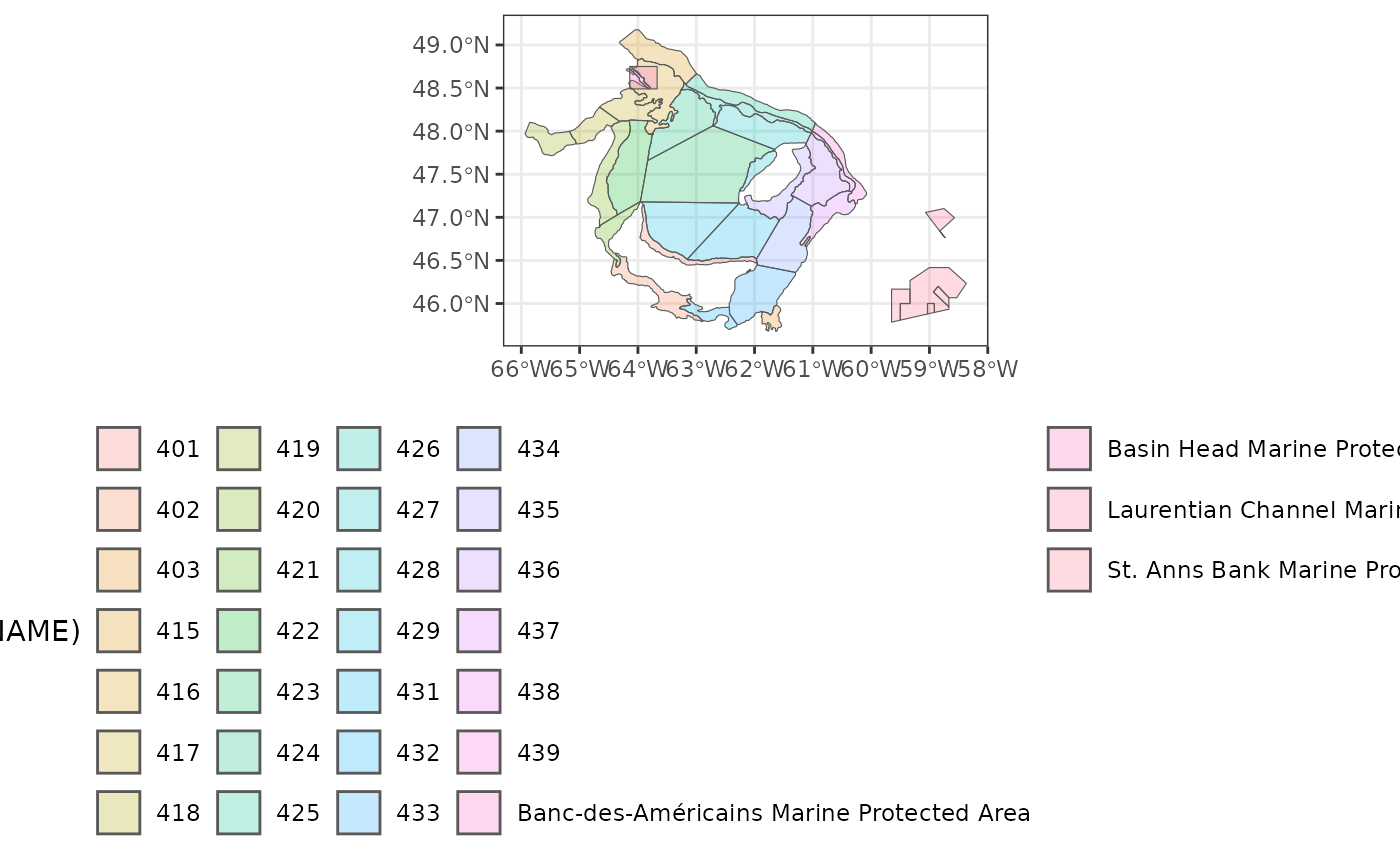
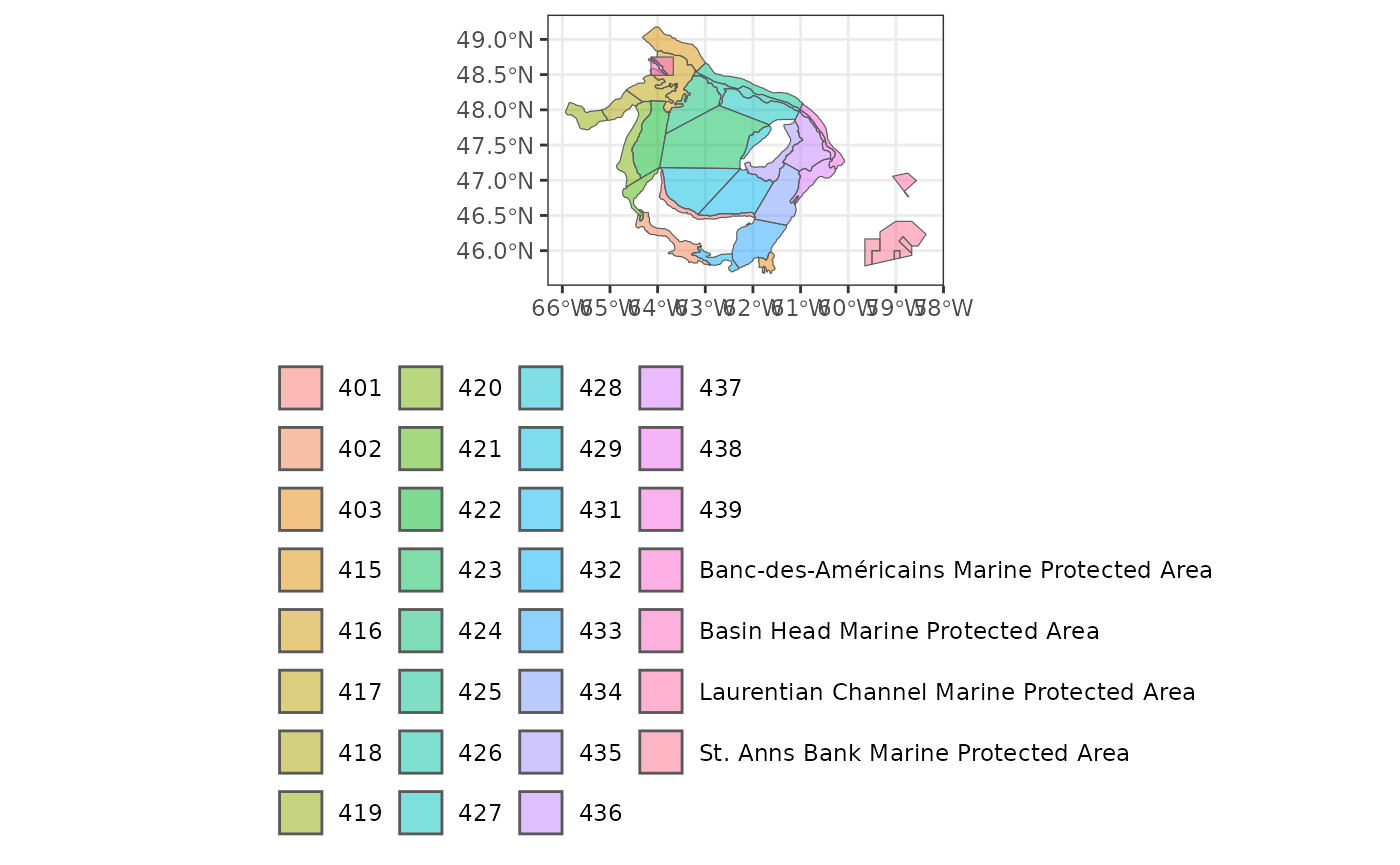
Deploying to gh-pages from @ JoleneSutton/gslSpatial@ce8146a61641ded3ab7da8df1fdc7cc9744b21e7 🚀

Changed region(s): [[0.0, 0.0312, 1.0, 0.9676], [0.5221, 0.8428, 0.7986, 0.874]]

diff --git a/articles/assign_points.html b/articles/assign_points.html
@@ -153,11 +153,11 @@ polygons</p>
 </h2>
 <div class="sourceCode" id="cb5"><pre class="downlit sourceCode r">
 <code class="sourceCode R"><span><span class="va">x</span><span class="op">&lt;-</span><span class="fu"><a href="../reference/assign_points_terra.html">assign_points_terra</a></span><span class="op">(</span><span class="va">df</span><span class="op">$</span><span class="va">longitude</span>, <span class="va">df</span><span class="op">$</span><span class="va">latitude</span>,<span class="va">rv</span><span class="op">)</span></span>
-<span><span class="co">#&gt; Processing points 1 to 1000. 17:28:02</span></span>
-<span><span class="co">#&gt; Processing points 1001 to 2000. 17:28:02</span></span>
-<span><span class="co">#&gt; Processing points 2001 to 3000. 17:28:02</span></span>
-<span><span class="co">#&gt; Processing points 3001 to 4000. 17:28:02</span></span>
-<span><span class="co">#&gt; Processing points 4001 to 4559. 17:28:02</span></span>
+<span><span class="co">#&gt; Processing points 1 to 1000. 17:55:28</span></span>
+<span><span class="co">#&gt; Processing points 1001 to 2000. 17:55:28</span></span>
+<span><span class="co">#&gt; Processing points 2001 to 3000. 17:55:28</span></span>
+<span><span class="co">#&gt; Processing points 3001 to 4000. 17:55:28</span></span>
+<span><span class="co">#&gt; Processing points 4001 to 4559. 17:55:28</span></span>
 <span><span class="fu"><a href="https://rdrr.io/r/utils/head.html" class="external-link">head</a></span><span class="op">(</span><span class="va">x</span><span class="op">)</span></span>
 <span><span class="co">#&gt;          x       y assigned.polygon</span></span>
 <span><span class="co">#&gt; 1 -60.4406 47.2421              437</span></span>
@@ -226,7 +226,8 @@ Marine Protected Areas</p>
 <span>  <span class="fu"><a href="https://dieghernan.github.io/tidyterra/reference/ggspatvector.html" class="external-link">geom_spatvector</a></span><span class="op">(</span>data<span class="op">=</span><span class="va">rv</span>,fill<span class="op">=</span><span class="cn">NA</span>,col<span class="op">=</span><span class="st">'red'</span><span class="op">)</span><span class="op">+</span></span>
 <span>  <span class="fu"><a href="https://ggplot2.tidyverse.org/reference/geom_point.html" class="external-link">geom_point</a></span><span class="op">(</span>data<span class="op">=</span><span class="va">dat.ziff</span>,<span class="fu"><a href="https://ggplot2.tidyverse.org/reference/aes.html" class="external-link">aes</a></span><span class="op">(</span><span class="va">longitude</span>,<span class="va">latitude</span><span class="op">)</span>,alpha<span class="op">=</span><span class="fl">0.5</span><span class="op">)</span><span class="op">+</span></span>
 <span>  <span class="fu"><a href="https://ggplot2.tidyverse.org/reference/ggtheme.html" class="external-link">theme_bw</a></span><span class="op">(</span><span class="op">)</span><span class="op">+</span></span>
-<span>  <span class="fu"><a href="https://ggplot2.tidyverse.org/reference/theme.html" class="external-link">theme</a></span><span class="op">(</span>legend.position<span class="op">=</span><span class="st">"bottom"</span><span class="op">)</span></span></code></pre></div>
+<span>  <span class="fu"><a href="https://ggplot2.tidyverse.org/reference/theme.html" class="external-link">theme</a></span><span class="op">(</span>legend.position<span class="op">=</span><span class="st">"bottom"</span>,legend.title<span class="op">=</span><span class="fu"><a href="https://ggplot2.tidyverse.org/reference/element.html" class="external-link">element_blank</a></span><span class="op">(</span><span class="op">)</span><span class="op">)</span><span class="op">+</span></span>
+<span>  <span class="fu"><a href="https://ggplot2.tidyverse.org/reference/guides.html" class="external-link">guides</a></span><span class="op">(</span>fill<span class="op">=</span><span class="fu"><a href="https://ggplot2.tidyverse.org/reference/guide_legend.html" class="external-link">guide_legend</a></span><span class="op">(</span>ncol<span class="op">=</span><span class="fl">1</span>,byrow<span class="op">=</span><span class="cn">TRUE</span><span class="op">)</span><span class="op">)</span></span></code></pre></div>
 <p><img src="assign_points_files/figure-html/unnamed-chunk-6-1.png" width="700"></p>
 <p>In order to demonstrate function <code>assign_points_secr</code>, we
 will combine the two shapefiles as if they were originally a single
@@ -260,9 +261,10 @@ shapefile.</p>
 <span><span class="co">#&gt;                  403</span></span>
 <span></span>
 <span><span class="fu"><a href="https://ggplot2.tidyverse.org/reference/ggplot.html" class="external-link">ggplot</a></span><span class="op">(</span><span class="op">)</span><span class="op">+</span></span>
-<span>  <span class="fu"><a href="https://dieghernan.github.io/tidyterra/reference/ggspatvector.html" class="external-link">geom_spatvector</a></span><span class="op">(</span>data<span class="op">=</span><span class="va">shape</span>,<span class="fu"><a href="https://ggplot2.tidyverse.org/reference/aes.html" class="external-link">aes</a></span><span class="op">(</span>fill<span class="op">=</span><span class="fu"><a href="https://rdrr.io/r/base/factor.html" class="external-link">factor</a></span><span class="op">(</span><span class="va">NAME</span><span class="op">)</span><span class="op">)</span>,alpha<span class="op">=</span><span class="fl">0.25</span><span class="op">)</span><span class="op">+</span></span>
+<span>  <span class="fu"><a href="https://dieghernan.github.io/tidyterra/reference/ggspatvector.html" class="external-link">geom_spatvector</a></span><span class="op">(</span>data<span class="op">=</span><span class="va">shape</span>,<span class="fu"><a href="https://ggplot2.tidyverse.org/reference/aes.html" class="external-link">aes</a></span><span class="op">(</span>fill<span class="op">=</span><span class="fu"><a href="https://rdrr.io/r/base/factor.html" class="external-link">factor</a></span><span class="op">(</span><span class="va">NAME</span><span class="op">)</span><span class="op">)</span>,alpha<span class="op">=</span><span class="fl">0.5</span><span class="op">)</span><span class="op">+</span></span>
 <span>  <span class="fu"><a href="https://ggplot2.tidyverse.org/reference/ggtheme.html" class="external-link">theme_bw</a></span><span class="op">(</span><span class="op">)</span><span class="op">+</span></span>
-<span>  <span class="fu"><a href="https://ggplot2.tidyverse.org/reference/theme.html" class="external-link">theme</a></span><span class="op">(</span>legend.position<span class="op">=</span><span class="st">"bottom"</span><span class="op">)</span></span></code></pre></div>
+<span>  <span class="fu"><a href="https://ggplot2.tidyverse.org/reference/theme.html" class="external-link">theme</a></span><span class="op">(</span>legend.position<span class="op">=</span><span class="st">"bottom"</span>,legend.title<span class="op">=</span><span class="fu"><a href="https://ggplot2.tidyverse.org/reference/element.html" class="external-link">element_blank</a></span><span class="op">(</span><span class="op">)</span><span class="op">)</span><span class="op">+</span></span>
+<span>  <span class="fu"><a href="https://ggplot2.tidyverse.org/reference/guides.html" class="external-link">guides</a></span><span class="op">(</span>fill<span class="op">=</span><span class="fu"><a href="https://ggplot2.tidyverse.org/reference/guide_legend.html" class="external-link">guide_legend</a></span><span class="op">(</span>nrow<span class="op">=</span><span class="fl">8</span><span class="op">)</span><span class="op">)</span></span></code></pre></div>
 <p><img src="assign_points_files/figure-html/unnamed-chunk-7-1.png" width="700"></p>
 <p>Now use function <code>assign_points_secr</code></p>
 <div class="sourceCode" id="cb8"><pre class="downlit sourceCode r">
@@ -273,73 +275,31 @@ shapefile.</p>
 <span><span class="va">polygon</span><span class="op">&lt;-</span><span class="va">x</span><span class="op">$</span><span class="va">assigned.polygon</span></span>
 <span></span>
 <span><span class="va">df2</span><span class="op">&lt;-</span><span class="fu"><a href="https://rdrr.io/r/base/cbind.html" class="external-link">cbind</a></span><span class="op">(</span><span class="va">dat.ziff</span>,<span class="va">polygon</span><span class="op">)</span></span>
-<span><span class="co">#&gt; Processing points 1 to 1000. 17:28:04</span></span>
-<span><span class="co">#&gt; Processing points 1001 to 2000. 17:28:05</span></span>
-<span><span class="co">#&gt; Processing points 2001 to 3000. 17:28:06</span></span>
-<span><span class="co">#&gt; Processing points 3001 to 4000. 17:28:06</span></span>
-<span><span class="co">#&gt; Processing points 4001 to 4559. 17:28:06</span></span></code></pre></div>
-<p>Using function <code>table</code> shows that 69 data points fall
-within the area in which stratum 416 overlaps with Banc-des-Américains
-Marine Protected Area. All other assigned points belong to
-non-overlapping polygon areas.</p>
+<span><span class="co">#&gt; Processing points 1 to 1000. 17:55:30</span></span>
+<span><span class="co">#&gt; Processing points 1001 to 2000. 17:55:31</span></span>
+<span><span class="co">#&gt; Processing points 2001 to 3000. 17:55:32</span></span>
+<span><span class="co">#&gt; Processing points 3001 to 4000. 17:55:32</span></span>
+<span><span class="co">#&gt; Processing points 4001 to 4559. 17:55:33</span></span></code></pre></div>
+<p>Using function <code>table</code> shows that 69 points fall within
+the area in which stratum 416 overlaps with Banc-des-Américains Marine
+Protected Area (e.g., table(df2$polygon)). All other assigned points
+belong to non-overlapping polygon areas.</p>
 <div class="sourceCode" id="cb9"><pre class="downlit sourceCode r">
-<code class="sourceCode R"><span><span class="fu"><a href="https://rdrr.io/r/base/table.html" class="external-link">table</a></span><span class="op">(</span><span class="va">df2</span><span class="op">$</span><span class="va">polygon</span><span class="op">)</span></span>
+<code class="sourceCode R"><span><span class="fu"><a href="https://rdrr.io/r/base/cbind.html" class="external-link">rbind</a></span><span class="op">(</span><span class="fu"><a href="https://rdrr.io/r/base/table.html" class="external-link">table</a></span><span class="op">(</span><span class="va">df2</span><span class="op">$</span><span class="va">polygon</span><span class="op">)</span><span class="op">)</span></span>
+<span><span class="co">#&gt;      415 416 416, Banc-des-Américains Marine Protected Area 417 418 419 420 422</span></span>
+<span><span class="co">#&gt; [1,] 105 111                                             69  92  77  28  31  15</span></span>
+<span><span class="co">#&gt;      423 424 425 426 427 428 429 431 433 434 435 436 437 438 439</span></span>
+<span><span class="co">#&gt; [1,] 264  64 198   7  43   3  33  37   4   6 236  61 302  49 177</span></span>
+<span><span class="co">#&gt;      Banc-des-Américains Marine Protected Area</span></span>
+<span><span class="co">#&gt; [1,]                                        15</span></span>
 <span></span>
 <span><span class="fu"><a href="https://ggplot2.tidyverse.org/reference/ggplot.html" class="external-link">ggplot</a></span><span class="op">(</span><span class="op">)</span><span class="op">+</span></span>
 <span>  <span class="fu"><a href="https://dieghernan.github.io/tidyterra/reference/ggspatvector.html" class="external-link">geom_spatvector</a></span><span class="op">(</span>data<span class="op">=</span><span class="va">shape</span>,fill<span class="op">=</span><span class="cn">NA</span><span class="op">)</span><span class="op">+</span></span>
 <span>  <span class="fu"><a href="https://ggplot2.tidyverse.org/reference/geom_point.html" class="external-link">geom_point</a></span><span class="op">(</span>data<span class="op">=</span><span class="va">df2</span>,<span class="fu"><a href="https://ggplot2.tidyverse.org/reference/aes.html" class="external-link">aes</a></span><span class="op">(</span><span class="va">longitude</span>,<span class="va">latitude</span>,col<span class="op">=</span><span class="va">polygon</span><span class="op">)</span>,alpha<span class="op">=</span><span class="fl">0.5</span><span class="op">)</span><span class="op">+</span></span>
 <span>  <span class="fu"><a href="https://ggplot2.tidyverse.org/reference/ggtheme.html" class="external-link">theme_bw</a></span><span class="op">(</span><span class="op">)</span><span class="op">+</span></span>
-<span>  <span class="fu"><a href="https://ggplot2.tidyverse.org/reference/theme.html" class="external-link">theme</a></span><span class="op">(</span>legend.position<span class="op">=</span><span class="st">"bottom"</span><span class="op">)</span></span></code></pre></div>
+<span>  <span class="fu"><a href="https://ggplot2.tidyverse.org/reference/theme.html" class="external-link">theme</a></span><span class="op">(</span>legend.position<span class="op">=</span><span class="st">"bottom"</span>,legend.title<span class="op">=</span><span class="fu"><a href="https://ggplot2.tidyverse.org/reference/element.html" class="external-link">element_blank</a></span><span class="op">(</span><span class="op">)</span><span class="op">)</span><span class="op">+</span></span>
+<span>  <span class="fu"><a href="https://ggplot2.tidyverse.org/reference/guides.html" class="external-link">guides</a></span><span class="op">(</span>col<span class="op">=</span><span class="fu"><a href="https://ggplot2.tidyverse.org/reference/guide_legend.html" class="external-link">guide_legend</a></span><span class="op">(</span>ncol<span class="op">=</span><span class="fl">4</span><span class="op">)</span><span class="op">)</span></span></code></pre></div>
 <p><img src="assign_points_files/figure-html/unnamed-chunk-9-1.png" width="700"></p>
-<pre><code><span><span class="co">#&gt; </span></span>
-<span><span class="co">#&gt;                                            415 </span></span>
-<span><span class="co">#&gt;                                            105 </span></span>
-<span><span class="co">#&gt;                                            416 </span></span>
-<span><span class="co">#&gt;                                            111 </span></span>
-<span><span class="co">#&gt; 416, Banc-des-Américains Marine Protected Area </span></span>
-<span><span class="co">#&gt;                                             69 </span></span>
-<span><span class="co">#&gt;                                            417 </span></span>
-<span><span class="co">#&gt;                                             92 </span></span>
-<span><span class="co">#&gt;                                            418 </span></span>
-<span><span class="co">#&gt;                                             77 </span></span>
-<span><span class="co">#&gt;                                            419 </span></span>
-<span><span class="co">#&gt;                                             28 </span></span>
-<span><span class="co">#&gt;                                            420 </span></span>
-<span><span class="co">#&gt;                                             31 </span></span>
-<span><span class="co">#&gt;                                            422 </span></span>
-<span><span class="co">#&gt;                                             15 </span></span>
-<span><span class="co">#&gt;                                            423 </span></span>
-<span><span class="co">#&gt;                                            264 </span></span>
-<span><span class="co">#&gt;                                            424 </span></span>
-<span><span class="co">#&gt;                                             64 </span></span>
-<span><span class="co">#&gt;                                            425 </span></span>
-<span><span class="co">#&gt;                                            198 </span></span>
-<span><span class="co">#&gt;                                            426 </span></span>
-<span><span class="co">#&gt;                                              7 </span></span>
-<span><span class="co">#&gt;                                            427 </span></span>
-<span><span class="co">#&gt;                                             43 </span></span>
-<span><span class="co">#&gt;                                            428 </span></span>
-<span><span class="co">#&gt;                                              3 </span></span>
-<span><span class="co">#&gt;                                            429 </span></span>
-<span><span class="co">#&gt;                                             33 </span></span>
-<span><span class="co">#&gt;                                            431 </span></span>
-<span><span class="co">#&gt;                                             37 </span></span>
-<span><span class="co">#&gt;                                            433 </span></span>
-<span><span class="co">#&gt;                                              4 </span></span>
-<span><span class="co">#&gt;                                            434 </span></span>
-<span><span class="co">#&gt;                                              6 </span></span>
-<span><span class="co">#&gt;                                            435 </span></span>
-<span><span class="co">#&gt;                                            236 </span></span>
-<span><span class="co">#&gt;                                            436 </span></span>
-<span><span class="co">#&gt;                                             61 </span></span>
-<span><span class="co">#&gt;                                            437 </span></span>
-<span><span class="co">#&gt;                                            302 </span></span>
-<span><span class="co">#&gt;                                            438 </span></span>
-<span><span class="co">#&gt;                                             49 </span></span>
-<span><span class="co">#&gt;                                            439 </span></span>
-<span><span class="co">#&gt;                                            177 </span></span>
-<span><span class="co">#&gt;      Banc-des-Américains Marine Protected Area </span></span>
-<span><span class="co">#&gt;                                             15</span></span></code></pre>
 </div>
 <div class="section level2">
 <h2 id="assigning-points-to-the-nearest-polygon">Assigning points to the nearest polygon<a class="anchor" aria-label="anchor" href="#assigning-points-to-the-nearest-polygon"></a>
@@ -350,7 +310,7 @@ wanted to find out which polygons they were closest to? Then we could
 use function <code>assign_points_to_nearest_polygon</code>. This
 function takes a bit longer to run compare to
 <code>assign_points_terra</code> or <code>assign_points_secr</code>.</p>
-<div class="sourceCode" id="cb11"><pre class="downlit sourceCode r">
+<div class="sourceCode" id="cb10"><pre class="downlit sourceCode r">
 <code class="sourceCode R"><span><span class="co"># get the unassigned data points</span></span>
 <span><span class="va">pts.outside</span><span class="op">&lt;-</span><span class="va">df2</span><span class="op">[</span><span class="fu"><a href="https://rdrr.io/r/base/which.html" class="external-link">which</a></span><span class="op">(</span><span class="fu"><a href="https://rdrr.io/r/base/NA.html" class="external-link">is.na</a></span><span class="op">(</span><span class="va">df2</span><span class="op">$</span><span class="va">polygon</span><span class="op">)</span><span class="op">)</span>,<span class="op">]</span></span>
 <span></span>
@@ -369,7 +329,8 @@ function takes a bit longer to run compare to
 <span>  <span class="fu"><a href="https://dieghernan.github.io/tidyterra/reference/ggspatvector.html" class="external-link">geom_spatvector</a></span><span class="op">(</span>data<span class="op">=</span><span class="va">shape</span>,fill<span class="op">=</span><span class="cn">NA</span><span class="op">)</span><span class="op">+</span></span>
 <span>  <span class="fu"><a href="https://ggplot2.tidyverse.org/reference/geom_point.html" class="external-link">geom_point</a></span><span class="op">(</span>data<span class="op">=</span><span class="va">x</span>,<span class="fu"><a href="https://ggplot2.tidyverse.org/reference/aes.html" class="external-link">aes</a></span><span class="op">(</span><span class="va">x</span>,<span class="va">y</span>,col<span class="op">=</span><span class="va">NAME</span><span class="op">)</span>,alpha<span class="op">=</span><span class="fl">0.5</span><span class="op">)</span><span class="op">+</span></span>
 <span>  <span class="fu"><a href="https://ggplot2.tidyverse.org/reference/ggtheme.html" class="external-link">theme_bw</a></span><span class="op">(</span><span class="op">)</span><span class="op">+</span></span>
-<span>  <span class="fu"><a href="https://ggplot2.tidyverse.org/reference/theme.html" class="external-link">theme</a></span><span class="op">(</span>legend.position<span class="op">=</span><span class="st">"bottom"</span><span class="op">)</span></span></code></pre></div>
+<span>  <span class="fu"><a href="https://ggplot2.tidyverse.org/reference/theme.html" class="external-link">theme</a></span><span class="op">(</span>legend.position<span class="op">=</span><span class="st">"bottom"</span>,legend.title<span class="op">=</span><span class="fu"><a href="https://ggplot2.tidyverse.org/reference/element.html" class="external-link">element_blank</a></span><span class="op">(</span><span class="op">)</span><span class="op">)</span><span class="op">+</span></span>
+<span>  <span class="fu"><a href="https://ggplot2.tidyverse.org/reference/guides.html" class="external-link">guides</a></span><span class="op">(</span>col<span class="op">=</span><span class="fu"><a href="https://ggplot2.tidyverse.org/reference/guide_legend.html" class="external-link">guide_legend</a></span><span class="op">(</span>ncol<span class="op">=</span><span class="fl">6</span><span class="op">)</span><span class="op">)</span></span></code></pre></div>
 <p><img src="assign_points_files/figure-html/unnamed-chunk-10-1.png" width="700"></p>
 </div>
   </main><aside class="col-md-3"><nav id="toc" aria-label="Table of contents"><h2>On this page</h2>
